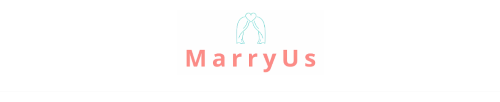
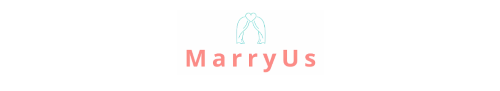
소영--미니배너변경

Changed region(s): [[0.36, 0.4835, 0.63, 0.7912], [0.45, 0.1099, 0.54, 0.4835]]

diff --git a/front/src/components/mainPage/MainPageApp.js b/front/src/components/mainPage/MainPageApp.js
@@ -18,11 +18,11 @@ function MainPageApp() {
             <HomePage/>
             <div className="main-right-banner1">
               <a href="https://www.kcen.kr/USR_main2016.jsp??=MAIN/index" target="_blank">
-              <img src="images/airEnv.gif"></img></a>
+              <img src="images/airEnv.jpg"></img></a>
             </div>
             <div className="main-right-banner2">
               <a href="http://192.168.16.4:3000/" target="_blank">
-              <img src="images/logo_gray.png" style={{width:'500px', height:'50px'}}></img></a>
+              <img src="images/logo_gray2.png" ></img></a>
             </div>
             <div className="main-right-banner3">
               <a href="http://192.168.16.23:3000/" target="_blank">
